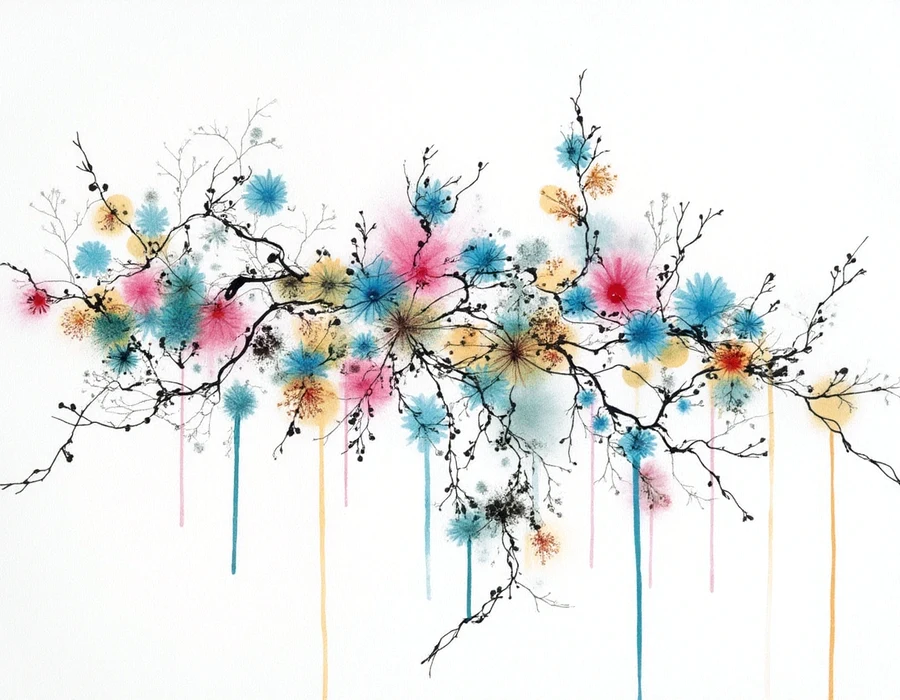
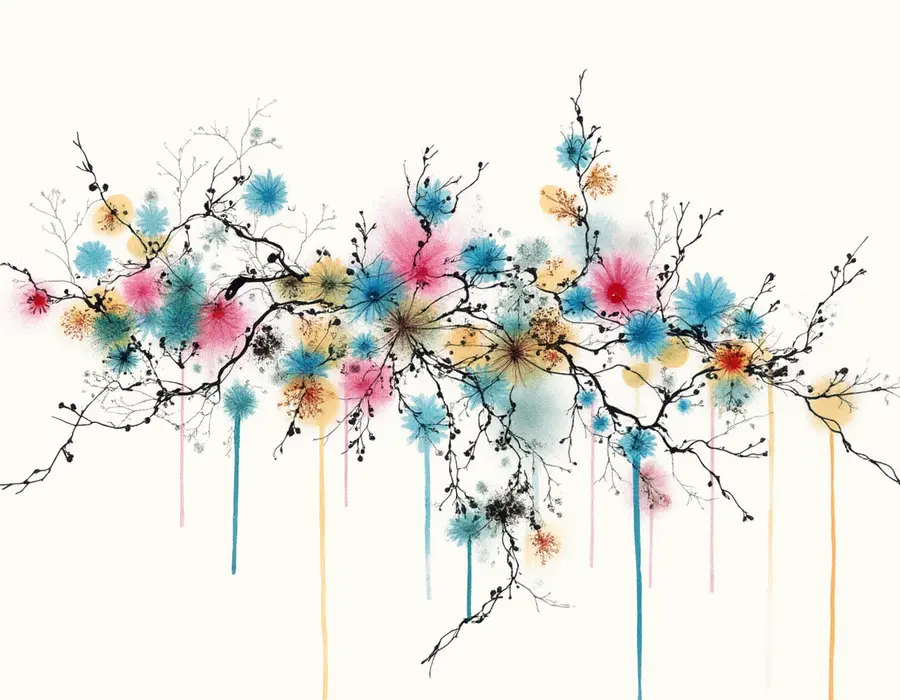
feat(cards): pick up the new card layout and Nunito text
Self-host Nunito for the shared card styles, bump the game-components and card preview cache versions, and regenerate the design-page card art from the whitened masters. Scope the Updates timeline styles to .jw-cards: their .jw-card class names were overriding the game card text size and adding a left border on the card galleries.

diff --git a/css/styles.css b/css/styles.css
@@ -611,22 +611,23 @@ main.home {
 }
 .jw-tl-label .jw-rule { flex: 1; height: 1px; background: rgba(156, 163, 175, 0.18); }
 
-/* Masonry of cards within a month */
+/* Masonry of cards within a month. Scoped to .jw-cards: the game components
+   (game-components.css) share the .jw-card class names. */
 .jw-cards { columns: 1; column-gap: 2rem; }
 @media (min-width: 768px) { .jw-cards { columns: 2; } }
 
-.jw-card {
+.jw-cards .jw-card {
     break-inside: avoid;
     -webkit-column-break-inside: avoid;
     margin: 0 0 1.75rem;
     border-left: 2px solid rgba(107, 114, 128, 0.55);
     padding-left: 1.25rem;
 }
-.jw-card[hidden] { display: none; }
-.jw-card[data-type="board"] { border-left-color: rgba(245, 158, 11, 0.7); }
-.jw-card[data-type="video"] { border-left-color: rgba(59, 130, 246, 0.7); }
-.jw-card[data-type="both"]  { border-left-color: rgba(156, 163, 175, 0.6); }
-.jw-card-title {
+.jw-cards .jw-card[hidden] { display: none; }
+.jw-cards .jw-card[data-type="board"] { border-left-color: rgba(245, 158, 11, 0.7); }
+.jw-cards .jw-card[data-type="video"] { border-left-color: rgba(59, 130, 246, 0.7); }
+.jw-cards .jw-card[data-type="both"]  { border-left-color: rgba(156, 163, 175, 0.6); }
+.jw-cards .jw-card-title {
     font-size: 1rem;
     font-weight: 500;
     color: #fff;
@@ -634,8 +635,8 @@ main.home {
     line-height: 1.4;
     margin: 0.5rem 0 0.375rem;
 }
-.jw-card-text { font-size: 0.875rem; color: #9ca3af; line-height: 1.625; }
-.jw-card-text a { color: rgb(250 204 21); text-decoration: underline; text-underline-offset: 2px; }
+.jw-cards .jw-card-text { font-size: 0.875rem; color: #9ca3af; line-height: 1.625; }
+.jw-cards .jw-card-text a { color: rgb(250 204 21); text-decoration: underline; text-underline-offset: 2px; }
 
 /* Card illustration frame: white card face, deck-colour border, soft lift.
    Applied to the sample card images on the Design and Board Game pages so they

diff --git a/templates/design.php b/templates/design.php
@@ -79,7 +79,7 @@ $P = 'pages.design';
                 <div class="col-span-12 md:col-span-8 md:col-start-5">
                     <h2 id="identity-title" class="text-2xl md:text-3xl font-medium text-white tracking-tight leading-tight mb-6"><?= te("$P.identity.title") ?></h2>
                     <figure class="mb-8">
-                        <img src="/img/design/card-box-not-yet.webp?v=4" alt="<?= te("$P.identity.fig_alt") ?>" class="w-full block jw-card-frame card-red" loading="lazy">
+                        <img src="/img/design/card-box-not-yet.webp?v=5" alt="<?= te("$P.identity.fig_alt") ?>" class="w-full block jw-card-frame card-red" loading="lazy">
                         <figcaption class="text-sm text-gray-400 italic mt-3"><?= t("$P.identity.fig_caption") ?></figcaption>
                     </figure>
                     <p class="text-gray-300 text-base md:text-lg leading-[1.75]">
@@ -147,7 +147,7 @@ $P = 'pages.design';
                             <figcaption class="text-xs text-gray-400 italic mt-3"><?= t("$P.consent.fig1_caption") ?></figcaption>
                         </figure>
                         <figure>
-                            <img src="/img/design/card-map.webp?v=4" alt="<?= te("$P.consent.fig2_alt") ?>" class="w-full block jw-card-frame card-red" loading="lazy">
+                            <img src="/img/design/card-map.webp?v=5" alt="<?= te("$P.consent.fig2_alt") ?>" class="w-full block jw-card-frame card-red" loading="lazy">
                             <figcaption class="text-xs text-gray-400 italic mt-3"><?= t("$P.consent.fig2_caption") ?></figcaption>
                         </figure>
                     </div>
@@ -183,15 +183,15 @@ $P = 'pages.design';
                     <h2 id="voice-title" class="text-2xl md:text-3xl font-medium text-white tracking-tight leading-tight mb-6"><?= te("$P.voice.title") ?></h2>
                     <div class="grid grid-cols-1 sm:grid-cols-3 gap-4 mb-8">
                         <figure>
-                            <img src="/img/design/card-memory.webp?v=4" alt="<?= te("$P.voice.fig1_alt") ?>" class="w-full block jw-card-frame card-red" loading="lazy">
+                            <img src="/img/design/card-memory.webp?v=5" alt="<?= te("$P.voice.fig1_alt") ?>" class="w-full block jw-card-frame card-red" loading="lazy">
                             <figcaption class="text-xs text-gray-400 italic mt-3"><?= t("$P.voice.fig1_caption") ?></figcaption>
                         </figure>
                         <figure>
-                            <img src="/img/design/card-homecoming.webp?v=4" alt="<?= te("$P.voice.fig2_alt") ?>" class="w-full block jw-card-frame card-green" loading="lazy">
+                            <img src="/img/design/card-homecoming.webp?v=5" alt="<?= te("$P.voice.fig2_alt") ?>" class="w-full block jw-card-frame card-green" loading="lazy">
                             <figcaption class="text-xs text-gray-400 italic mt-3"><?= t("$P.voice.fig2_caption") ?></figcaption>
                         </figure>
                         <figure>
-                            <img src="/img/design/card-encounter.webp?v=4" alt="<?= te("$P.voice.fig3_alt") ?>" class="w-full block jw-card-frame card-purple" loading="lazy">
+                            <img src="/img/design/card-encounter.webp?v=5" alt="<?= te("$P.voice.fig3_alt") ?>" class="w-full block jw-card-frame card-purple" loading="lazy">
                             <figcaption class="text-xs text-gray-400 italic mt-3"><?= t("$P.voice.fig3_caption") ?></figcaption>
                         </figure>
                     </div>
@@ -230,7 +230,7 @@ $P = 'pages.design';
                             <figcaption class="text-xs text-gray-400 italic mt-3"><?= t("$P.meeting.fig1_caption") ?></figcaption>
                         </figure>
                         <figure>
-                            <img src="/img/design/card-mirror.webp?v=4" alt="<?= te("$P.meeting.fig2_alt") ?>" class="w-full block jw-card-frame card-red" loading="lazy">
+                            <img src="/img/design/card-mirror.webp?v=5" alt="<?= te("$P.meeting.fig2_alt") ?>" class="w-full block jw-card-frame card-red" loading="lazy">
                             <figcaption class="text-xs text-gray-400 italic mt-3"><?= t("$P.meeting.fig2_caption") ?></figcaption>
                         </figure>
                         <figure>
@@ -367,7 +367,7 @@ $P = 'pages.design';
                 <div class="col-span-12 md:col-span-8 md:col-start-5">
                     <h2 id="reach-title" class="text-2xl md:text-3xl font-medium text-white tracking-tight leading-tight mb-6"><?= te("$P.reach.title") ?></h2>
                     <figure class="mb-8">
-                        <img src="/img/design/card-shared-encounter.webp?v=4" alt="<?= te("$P.reach.fig_alt") ?>" class="w-full block jw-card-frame card-purple" loading="lazy">
+                        <img src="/img/design/card-shared-encounter.webp?v=5" alt="<?= te("$P.reach.fig_alt") ?>" class="w-full block jw-card-frame card-purple" loading="lazy">
                         <figcaption class="text-sm text-gray-400 italic mt-3"><?= te("$P.reach.fig_caption") ?></figcaption>
                     </figure>
                     <p class="text-gray-300 text-base md:text-lg leading-[1.75]">

diff --git a/templates/boardgame.php b/templates/boardgame.php
@@ -28,15 +28,15 @@ $mapTiles = [
 ];
 // Card fronts: [image path, card-colour class, gallery index].
 $cardFronts = [
-    ['/img/design/card-box-not-yet.webp?v=4',  'card-red',    0],
-    ['/img/design/card-homecoming.webp?v=4', 'card-green',  1],
-    ['/img/design/card-encounter.webp?v=4',    'card-purple', 2],
-    ['/img/design/card-mirror.webp?v=4',       'card-red',    3],
-    ['/img/design/card-commune.webp?v=4',      'card-purple', 4],
-    ['/img/design/card-map.webp?v=4',          'card-red',    5],
-    ['/img/design/card-memory.webp?v=4',       'card-red',    6],
-    ['/img/design/card-echo.webp?v=4',         'card-red',    7],
-    ['/img/design/card-wind.webp?v=4',         'card-red',    8],
+    ['/img/design/card-box-not-yet.webp?v=5',  'card-red',    0],
+    ['/img/design/card-homecoming.webp?v=5', 'card-green',  1],
+    ['/img/design/card-encounter.webp?v=5',    'card-purple', 2],
+    ['/img/design/card-mirror.webp?v=5',       'card-red',    3],
+    ['/img/design/card-commune.webp?v=5',      'card-purple', 4],
+    ['/img/design/card-map.webp?v=5',          'card-red',    5],
+    ['/img/design/card-memory.webp?v=5',       'card-red',    6],
+    ['/img/design/card-echo.webp?v=5',         'card-red',    7],
+    ['/img/design/card-wind.webp?v=5',         'card-red',    8],
 ];
 ?>
 <main>

diff --git a/templates/components-cards.php b/templates/components-cards.php
@@ -5,7 +5,7 @@
 // itself is built at runtime by js/components-cards.js (no static card markup).
 $P = 'pages.components-cards';
 ?>
-<link rel="stylesheet" href="/css/game-components.css?v=2">
+<link rel="stylesheet" href="/css/game-components.css?v=3">
 <style>
   /* Local replica of the play-side card gallery. Cards render in the printed
      component style (poker 5:7, warm paper, scaled art, script title); decks
@@ -90,5 +90,5 @@ $P = 'pages.components-cards';
         </div>
     </main>
 
-<script src="/js/game-components.js?v=3" defer></script>
+<script src="/js/game-components.js?v=4" defer></script>
 <script src="/js/components-cards.js?v=10" defer></script>

diff --git a/templates/components-tiles.php b/templates/components-tiles.php
@@ -5,7 +5,7 @@
 // page-specific styles the shared /css/game-components.css depends on.
 $P = 'pages.components-tiles';
 ?>
-<link rel="stylesheet" href="/css/game-components.css?v=2">
+<link rel="stylesheet" href="/css/game-components.css?v=3">
 <style>
   /* The tiles page renders only the tile grid. Tile FACE styles come from the
      shared /css/game-components.css (linked in the head), the same single
@@ -41,5 +41,5 @@ $P = 'pages.components-tiles';
         </div>
     </main>
 
-    <script src="/js/game-components.js?v=3" defer></script>
+    <script src="/js/game-components.js?v=4" defer></script>
     <script src="/js/components-tiles.js?v=7" defer></script>

diff --git a/partials/head.php b/partials/head.php
@@ -66,7 +66,7 @@ $ogImage = JW_ORIGIN . '/img/og-card.jpg';
     <link rel="preload" href="/fonts/inter-600-latin.woff2" as="font" type="font/woff2" crossorigin>
     <link rel="preload" href="/fonts/italianno-400-latin.woff2" as="font" type="font/woff2" crossorigin>
     <link rel="stylesheet" href="/css/tailwind.css?v=25">
-    <link rel="stylesheet" href="/css/styles.css?v=27">
+    <link rel="stylesheet" href="/css/styles.css?v=28">
 </head>
 <body class="bg-gray-800 text-white">
 <?php require __DIR__ . '/nav.php'; ?>
